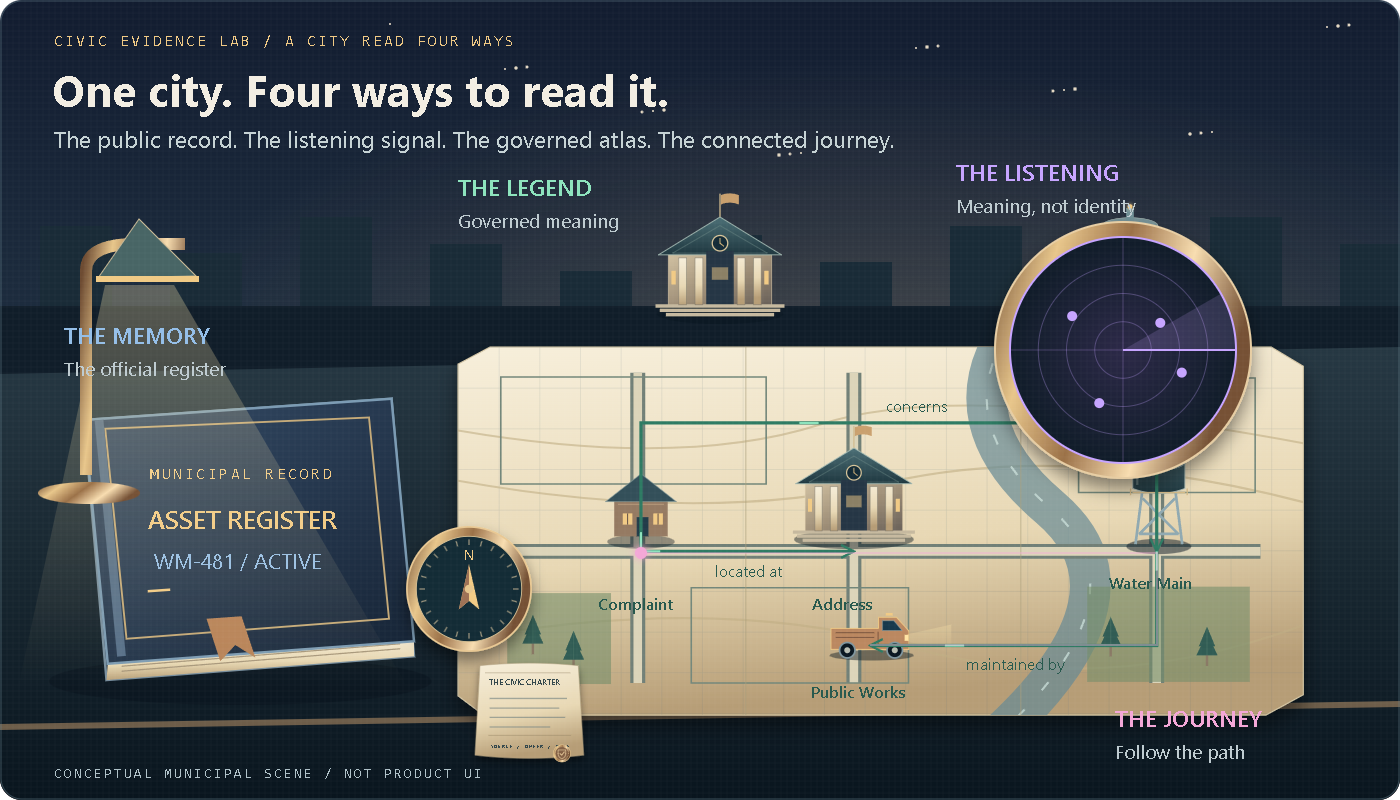
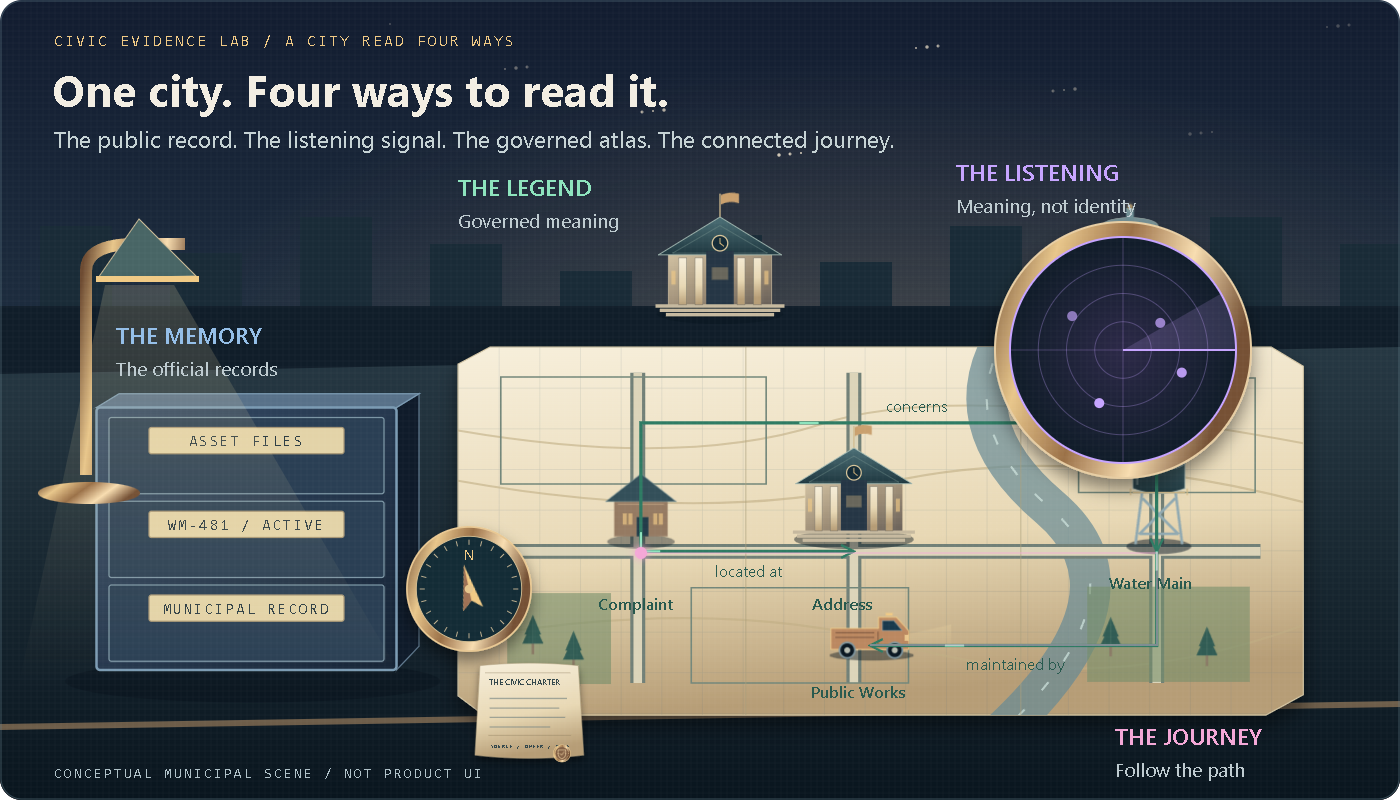
Replace leather register with file cabinet, move hero labels, add 1200x500 animated header GIF

diff --git a/blogs/vector-search-knowledge-graphs-fabric.html b/blogs/vector-search-knowledge-graphs-fabric.html
@@ -1,4 +1,4 @@
-<!doctype html>
+<!doctype html>
 <html lang="en">
 <head>
   <meta charset="utf-8">
@@ -48,13 +48,13 @@
     <h1>Vector Search vs. Knowledge Graphs: Where Microsoft Fabric Graph Fits</h1>
     <p class="meta">JonEricEubanks &middot; Draft based on the October 2, 2026 article</p>
     <figure>
-      <img data-civic-art src="../images/municipal-information-city-hero.svg" width="1400" height="800" alt="A lamplit civic survey desk overlooking city hall holds a leather asset register, brass radar, compass, sealed charter, and a parchment street atlas with a traveling route light.">
+      <img data-civic-art src="../images/municipal-information-city-hero.svg" width="1400" height="800" alt="A lamplit civic survey desk overlooking city hall holds a steel file cabinet, brass radar, compass, sealed charter, and a parchment street atlas with a traveling route light.">
       <figcaption>A city read four ways: its memory, its listening signal, its shared legend, and its connected journey. The recurring objects represent complementary responsibilities, not competing replacements.</figcaption>
     </figure>
     <h2>Records, radar, maps, and routes: making sense of AI data architecture</h2>
     <p>One of the most confused topics in AI is the difference between a vector database and a knowledge graph. The terms are often used as if they describe competing versions of the same technology. They do not.</p>
     <p>A vector database finds information that is similar in meaning. A knowledge graph defines what entities mean and how they are connected. A relational database preserves authoritative records and transactions. Microsoft Fabric Graph provides an engine for following complex paths and patterns across connected data in OneLake.</p>
-    <p>For local government, picture a <strong>Civic Evidence Lab</strong>: a lamplit survey desk overlooking city hall, with one water-main incident under examination. A leather register is the city's memory. A brass scanner is its listening signal. A sealed charter and street atlas are its shared legend. A compass and traveling light represent the journey through connected records. These objects recur throughout the illustrations because the instruments work together, but their findings are not interchangeable.</p>
+    <p>For local government, picture a <strong>Civic Evidence Lab</strong>: a lamplit survey desk overlooking city hall, with one water-main incident under examination. A file cabinet is the city's memory. A brass scanner is its listening signal. A sealed charter and street atlas are its shared legend. A compass and traveling light represent the journey through connected records. These objects recur throughout the illustrations because the instruments work together, but their findings are not interchangeable.</p>
     <figure>
       <img data-civic-art src="../images/municipal-information-city-divider.svg" width="1400" height="260" alt="" loading="lazy">
     </figure>
@@ -70,7 +70,7 @@
     <p>A records office is designed around exactness. Every permit has a permit number. Every parcel has a parcel identifier. Every inspection belongs to a known case, property, asset, or application.</p>
     <p>That is the role of a relational database. Information is organized into tables with rows, columns, primary keys, foreign keys, constraints, and transactions. The database protects the integrity of the official record.</p>
     <figure>
-      <img data-civic-art src="../images/municipal-records-office.svg" width="1400" height="680" alt="A stone municipal records office stands beside a brass-handled archive cabinet. A work-order drawer opens slowly beside a leather asset register.">
+      <img data-civic-art src="../images/municipal-records-office.svg" width="1400" height="680" alt="A stone municipal records office stands beside a brass-handled archive cabinet. A work-order drawer opens slowly beside a smaller steel file cabinet.">
       <figcaption>The city's memory: an archive drawer opens, but the official record stays exact. The fictional asset, work-order, and inspection IDs are examples, not real resident data.</figcaption>
     </figure>
     <p>A relational database is the right tool for questions such as:</p>
@@ -176,7 +176,7 @@ Asset ownership came from the municipal asset-management system</code></pre>
     <h2>One water-main incident, four different questions</h2>
     <p>Consider a resident reporting water bubbling through the pavement. Each part of the municipal information city answers a different question.</p>
     <figure>
-      <img data-civic-art src="../images/water-main-four-views.svg" width="1400" height="680" alt="A house, bubbling street puddle, public-works truck, and water tower sit above a flowing water-main cutaway. A complaint sheet, register, compass, and seal frame the investigation." loading="lazy">
+      <img data-civic-art src="../images/water-main-four-views.svg" width="1400" height="680" alt="A house, bubbling street puddle, public-works truck, and water tower sit above a flowing water-main cutaway. A complaint sheet, file cabinet, compass, and seal frame the investigation." loading="lazy">
       <figcaption>One leak, four questions. The street scene keeps the architecture grounded in a municipal service problem; the underground water flow is physical context, not a database pipeline.</figcaption>
     </figure>
     <p><strong>The records office asks:</strong> Which official asset, complaint, inspection, or work-order records match this identifier or location?</p>
@@ -206,11 +206,11 @@ Illustrative application contract, not Fabric Graph API syntax.</code></pre>
     <h2>The visual language matters</h2>
     <p>When diagrams mix similarity and relationships together, they reinforce the same confusion the architecture is supposed to solve. The symbols should make the difference visible.</p>
     <figure>
-      <img data-civic-art src="../images/municipal-data-symbols.svg" width="1400" height="680" alt="A leather register, rotating radar, sealed charter, and moving compass form a physical symbol legend above solid, dashed, dotted, and wavy line samples." loading="lazy">
+      <img data-civic-art src="../images/municipal-data-symbols.svg" width="1400" height="680" alt="A steel file cabinet, rotating radar, sealed charter, and moving compass form a physical symbol legend above solid, dashed, dotted, and wavy line samples." loading="lazy">
       <figcaption>The objects are the legend. Their silhouettes identify the responsibility; line styles identify the status of a connection. Color and movement never carry meaning alone.</figcaption>
     </figure>
     <ul>
-      <li><strong>The navy leather register and archive cabinet</strong> represent authoritative relational records: the city's memory.</li>
+      <li><strong>The archive file cabinet</strong> represent authoritative relational records: the city's memory.</li>
       <li><strong>The purple radar, floating reports, and waves</strong> represent semantic similarity: the city's listening signal.</li>
       <li><strong>The parchment atlas and green labeled connections</strong> represent entities and explicit relationships: the city's shared legend.</li>
       <li><strong>Gold seals and shields</strong> represent definitions, rules, provenance, and governance.</li>
@@ -231,7 +231,7 @@ Complaint ≈≈≈ similar to ≈≈≈ Complaint</code></pre>
     <p>The wrong architectural question is, “Should we use SQL, a vector database, a knowledge graph, or Fabric Graph?”</p>
     <p>The better question is, “Which responsibility does each layer need to perform?”</p>
     <figure>
-      <img data-civic-art src="../images/municipal-information-layers.svg" width="1400" height="680" alt="City hall and a water tower frame an evidence desk where the asset register, radar, charter, and traced city atlas work together without a stack of boxes." loading="lazy">
+      <img data-civic-art src="../images/municipal-information-layers.svg" width="1400" height="680" alt="City hall and a water tower frame an evidence desk where the file cabinet, radar, charter, and traced city atlas work together without a stack of boxes." loading="lazy">
       <figcaption>Compose the city, not a winner. The recurring instruments share one scene because their responsibilities complement each other; they are not a required stack or a linear pipeline.</figcaption>
     </figure>
     <ul>

diff --git a/blogs/vector-search-knowledge-graphs-fabric-techcommunity.html b/blogs/vector-search-knowledge-graphs-fabric-techcommunity.html
@@ -1,8 +1,8 @@
-<figure>
+<figure>
       <img
         style="width: 100%; max-width: 960px; height: auto"
-        src="https://raw.githubusercontent.com/JonEricEubanks/public-assets/main/images/municipal-information-city-hero.svg"
-        alt="A lamplit civic survey desk overlooking city hall holds a leather asset register, brass radar, compass, sealed charter, and a parchment street atlas with a traveling route light."
+        src="https://raw.githubusercontent.com/JonEricEubanks/public-assets/main/images/municipal-information-city-hero-wide.gif"
+        alt="A lamplit civic survey desk overlooking city hall holds a steel file cabinet, brass radar, compass, sealed charter, and a parchment street atlas with a traveling route light."
         loading="lazy"
       />
       <figcaption>A city read four ways: its memory, its listening signal, its shared legend, and its connected journey. The recurring objects represent complementary responsibilities, not competing replacements.</figcaption>
@@ -10,7 +10,7 @@
     <h2>Records, radar, maps, and routes: making sense of AI data architecture</h2>
     <p>One of the most confused topics in AI is the difference between a vector database and a knowledge graph. The terms are often used as if they describe competing versions of the same technology. They do not.</p>
     <p>A vector database finds information that is similar in meaning. A knowledge graph defines what entities mean and how they are connected. A relational database preserves authoritative records and transactions. Microsoft Fabric Graph provides an engine for following complex paths and patterns across connected data in OneLake.</p>
-    <p>For local government, picture a <strong>Civic Evidence Lab</strong>: a lamplit survey desk overlooking city hall, with one water-main incident under examination. A leather register is the city's memory. A brass scanner is its listening signal. A sealed charter and street atlas are its shared legend. A compass and traveling light represent the journey through connected records. These objects recur throughout the illustrations because the instruments work together, but their findings are not interchangeable.</p>
+    <p>For local government, picture a <strong>Civic Evidence Lab</strong>: a lamplit survey desk overlooking city hall, with one water-main incident under examination. A file cabinet is the city's memory. A brass scanner is its listening signal. A sealed charter and street atlas are its shared legend. A compass and traveling light represent the journey through connected records. These objects recur throughout the illustrations because the instruments work together, but their findings are not interchangeable.</p>
     <figure>
       <img
         style="width: 100%; max-width: 960px; height: auto"
@@ -34,7 +34,7 @@
       <img
         style="width: 100%; max-width: 960px; height: auto"
         src="https://raw.githubusercontent.com/JonEricEubanks/public-assets/main/images/municipal-records-office.svg"
-        alt="A stone municipal records office stands beside a brass-handled archive cabinet. A work-order drawer opens slowly beside a leather asset register."
+        alt="A stone municipal records office stands beside a brass-handled archive cabinet. A work-order drawer opens slowly beside a smaller steel file cabinet."
         loading="lazy"
       />
       <figcaption>The city's memory: an archive drawer opens, but the official record stays exact. The fictional asset, work-order, and inspection IDs are examples, not real resident data.</figcaption>
@@ -160,7 +160,7 @@ Asset ownership came from the municipal asset-management system</code></pre>
       <img
         style="width: 100%; max-width: 960px; height: auto"
         src="https://raw.githubusercontent.com/JonEricEubanks/public-assets/main/images/water-main-four-views.svg"
-        alt="A house, bubbling street puddle, public-works truck, and water tower sit above a flowing water-main cutaway. A complaint sheet, register, compass, and seal frame the investigation."
+        alt="A house, bubbling street puddle, public-works truck, and water tower sit above a flowing water-main cutaway. A complaint sheet, file cabinet, compass, and seal frame the investigation."
         loading="lazy"
       />
       <figcaption>One leak, four questions. The street scene keeps the architecture grounded in a municipal service problem; the underground water flow is physical context, not a database pipeline.</figcaption>
@@ -195,13 +195,13 @@ Illustrative application contract, not Fabric Graph API syntax.</code></pre>
       <img
         style="width: 100%; max-width: 960px; height: auto"
         src="https://raw.githubusercontent.com/JonEricEubanks/public-assets/main/images/municipal-data-symbols.svg"
-        alt="A leather register, rotating radar, sealed charter, and moving compass form a physical symbol legend above solid, dashed, dotted, and wavy line samples."
+        alt="A steel file cabinet, rotating radar, sealed charter, and moving compass form a physical symbol legend above solid, dashed, dotted, and wavy line samples."
         loading="lazy"
       />
       <figcaption>The objects are the legend. Their silhouettes identify the responsibility; line styles identify the status of a connection. Color and movement never carry meaning alone.</figcaption>
     </figure>
     <ul>
-      <li><strong>The navy leather register and archive cabinet</strong> represent authoritative relational records: the city's memory.</li>
+      <li><strong>The archive file cabinet</strong> represent authoritative relational records: the city's memory.</li>
       <li><strong>The purple radar, floating reports, and waves</strong> represent semantic similarity: the city's listening signal.</li>
       <li><strong>The parchment atlas and green labeled connections</strong> represent entities and explicit relationships: the city's shared legend.</li>
       <li><strong>Gold seals and shields</strong> represent definitions, rules, provenance, and governance.</li>
@@ -225,7 +225,7 @@ Complaint ≈≈≈ similar to ≈≈≈ Complaint</code></pre>
       <img
         style="width: 100%; max-width: 960px; height: auto"
         src="https://raw.githubusercontent.com/JonEricEubanks/public-assets/main/images/municipal-information-layers.svg"
-        alt="City hall and a water tower frame an evidence desk where the asset register, radar, charter, and traced city atlas work together without a stack of boxes."
+        alt="City hall and a water tower frame an evidence desk where the file cabinet, radar, charter, and traced city atlas work together without a stack of boxes."
         loading="lazy"
       />
       <figcaption>Compose the city, not a winner. The recurring instruments share one scene because their responsibilities complement each other; they are not a required stack or a linear pipeline.</figcaption>

diff --git a/tools/build_civic_evidence_art.py b/tools/build_civic_evidence_art.py
@@ -1,4 +1,4 @@
-"""Render the original, scene-led Civic Evidence Lab animated SVG collection."""
+"""Render the original, scene-led Civic Evidence Lab animated SVG collection."""
 
 from html import escape
 from math import cos, sin, pi
@@ -41,6 +41,7 @@ DEFS = """
  .needle{animation:needle 8s ease-in-out infinite;transform-origin:0 0}
  .stamp{animation:stamp 7s ease-in-out infinite}
  .drawer{animation:drawer 9s ease-in-out infinite}
+ .pull{animation:pull 9s ease-in-out infinite}
  .draft{stroke-dasharray:18 250;animation:draft 8s linear infinite}
  .flow{stroke-dasharray:10 24;animation:flow 4s linear infinite}
  .traveler{offset-rotate:0deg;animation:travel 14s linear infinite}
@@ -54,6 +55,7 @@ DEFS = """
  @keyframes sweep{to{transform:rotate(360deg)}}
  @keyframes needle{0%,100%{transform:rotate(-12deg)}50%{transform:rotate(16deg)}}
  @keyframes stamp{0%,25%,100%{transform:translateY(-16px)}35%,55%{transform:translateY(0)}}
+ @keyframes pull{0%,20%,100%{transform:translate(0,0)}35%,65%{transform:translate(-5px,9px)}}
  @keyframes drawer{0%,20%,100%{transform:translateX(0)}35%,65%{transform:translateX(18px)}}
  @keyframes draft{to{stroke-dashoffset:-268}}
  @keyframes flow{to{stroke-dashoffset:-68}}
@@ -147,20 +149,20 @@ def stars(height):
     return body
 
 
-def book(x, y, scale=1, title="ASSET REGISTER"):
-    body = """<ellipse cx="125" cy="209" rx="153" ry="19" fill="#07111b" opacity=".5"/>
-<path d="M0 0L246 -17L264 189L18 208Z" fill="#152539" stroke="#778e9e" stroke-width="2"/>
-<path d="M18 208L264 189V177L19 195Z" fill="url(#paper)"/><path d="M30 201L253 183M30 197L253 179" stroke="#a8987c"/>
-<path d="M0 0L19 195L264 177L246 -17Z" fill="url(#cover)" stroke="#7b9bb3" stroke-width="2"/>
-<path d="M17 7L34 175L244 159L228 -2Z" fill="none" stroke="#c5aa78" stroke-width="1.5"/>
-<path d="M12 0L30 189" stroke="#566f89" stroke-width="7"/>
-<path d="M98 159L109 193L121 180L137 190L126 157Z" fill="#b78358"/>"""
-    body += text(53, 47, "MUNICIPAL RECORD", 13, GOLD, 'class="mono"')
-    body += text(51, 87, title, 20, GOLD, 'font-weight="600"')
-    body += text(56, 119, "WM-481 / ACTIVE", 17, NAVY)
-    body += '<path class="draft" d="M51 137L222 125" stroke="#f1ca85" stroke-width="2"/>'
+def book(x, y, scale=1, title="ASSET FILES"):
+    body = """<ellipse cx="135" cy="209" rx="150" ry="17" fill="#07111b" opacity=".5"/>
+<path d="M250 -10L268 -21V181L250 200Z" fill="#0f1b2a" stroke="#5f788d"/>
+<path d="M10 -10L28 -21H268L250 -10Z" fill="#587189" stroke="#7b9bb3"/>
+<rect x="10" y="-10" width="240" height="210" rx="3" fill="url(#cover)" stroke="#7b9bb3" stroke-width="2"/>"""
+    labels = [title, "WM-481 / ACTIVE", "MUNICIPAL RECORD"]
+    for i, name in enumerate(labels):
+        top = -2 + i*67
+        cls = 'class="pull"' if i == 1 else ""
+        body += f'<g {cls}><rect x="20" y="{top}" width="220" height="61" rx="2" fill="#2a3f54" stroke="#7c96a5"/>'
+        body += f'<rect x="52" y="{top+8}" width="156" height="21" rx="2" fill="#e3d3a8" stroke="#a89776"/>'
+        body += text(130, top+23, name, 12, "#2d3d44", 'class="mono" text-anchor="middle"')
+        body += f'<path d="M98 {top+44}H162" stroke="url(#bronze)" stroke-width="7" stroke-linecap="round"/></g>'
     return transformed(x, y, scale, body)
-
 
 def charter(x, y, scale=1):
     body = """<path d="M0 4Q120 -8 234 4L247 217Q120 232 -12 217Z" fill="url(#paper)" stroke="#a89776" filter="url(#shadow)"/>
@@ -253,9 +255,12 @@ def puddle(x,y,scale=1):
     return transformed(x,y,scale,body)
 
 
-def write(name,title,description,body,height=680,subtitle=""):
-    header = text(54,46,"CIVIC EVIDENCE LAB / A CITY READ FOUR WAYS",16,GOLD,'class="mono"')
-    if height>300:
+def write(name,title,description,body,height=680,subtitle="",compact=False):
+    header = text(54,34 if compact else 46,"CIVIC EVIDENCE LAB / A CITY READ FOUR WAYS",16,GOLD,'class="mono"')
+    if compact:
+        header += text(52,84,title,38,extra='font-weight="700"')
+        header += text(54,114,subtitle,20,"#c6d3d5")
+    elif height>300:
         header += text(52,107,title,44,extra='font-weight="700"')
         header += text(54,148,subtitle,23,"#c6d3d5")
     footer = text(54,height-22,"CONCEPTUAL MUNICIPAL SCENE / NOT PRODUCT UI",14,"#b0c2c9",'class="mono"')
@@ -279,12 +284,12 @@ def build():
     body += atlas(458,347,1.07,True) + book(84,420,1.25)
     body += scanner(1123,350,113) + compass(469,589,.85) + charter(480,664,.42)
     body += '<path class="lamp" d="M105 285L18 688H408L174 285Z" fill="url(#beam)"/><path d="M86 475V271Q86 244 136 244H185" stroke="url(#bronze)" stroke-width="12" fill="none"/><path d="M98 278L139 219L196 276Z" fill="#486565" stroke="#c6b794"/><path d="M96 279H199" stroke="#f1ca85" stroke-width="6"/><ellipse cx="89" cy="493" rx="51" ry="11" fill="url(#bronze)"/>'
-    body += label(64,344,"THE MEMORY","The official register",NAVY)
+    body += label(116,344,"THE MEMORY","The official records",NAVY)
     body += label(956,181,"THE LISTENING","Meaning, not identity",PURPLE)
     body += label(458,196,"THE LEGEND","Governed meaning",GREEN)
     body += traveler("M641 553L855 553L1157 553L1157 645L870 645",MAGENTA)
-    body += label(1115,727,"THE JOURNEY","Follow the path",MAGENTA)
-    write("municipal-information-city-hero","One city. Four ways to read it.","A lamplit municipal survey desk overlooks a city hall and water tower. A leather register, floating-report radar, brass compass, charter seal, and parchment city atlas recur throughout the article. A magenta traveler follows a modeled route; it does not create facts.",body,800,"The public record. The listening signal. The governed atlas. The connected journey.")
+    body += label(1115,745,"THE JOURNEY","Follow the path",MAGENTA)
+    write("municipal-information-city-hero","One city. Four ways to read it.","A lamplit municipal survey desk overlooks a city hall and water tower. A steel file cabinet, floating-report radar, brass compass, charter seal, and parchment city atlas recur throughout the article. A magenta traveler follows a modeled route; it does not create facts.",body,800,"The public record. The listening signal. The governed atlas. The connected journey.")
 
     body = skyline(201,.75)
     body += text(54,105,"Every connection needs an anchor.",34,extra='font-weight="600"')
@@ -304,7 +309,7 @@ def build():
     body += book(1027,385,.92)
     body += label(74,580,"THE CITY'S MEMORY","Keys, constraints, transactions.",NAVY)
     body += label(643,580,"THE RECORD IS EXACT","An identifier is not a similarity score.",NAVY)
-    write("municipal-records-office","The memory / Preserve the public record","A stone municipal records office sits beside a brass-handled archive cabinet and a leather asset register. The work-order drawer slowly opens and closes while city-hall windows glow. All displayed IDs are fictional.",body,subtitle="Relational records are the city's memory: exact identifiers and protected transactions.")
+    write("municipal-records-office","The memory / Preserve the public record","A stone municipal records office sits beside a brass-handled archive cabinet and a smaller steel file cabinet. The work-order drawer slowly opens and closes while city-hall windows glow. All displayed IDs are fictional.",body,subtitle="Relational records are the city's memory: exact identifiers and protected transactions.")
 
     body = skyline(568,.9)
     body += scanner(470,378,179)
@@ -348,11 +353,11 @@ def build():
     body += report(54,233,.98,"COMPLAINT / CR-017") + book(492,216,.8) + compass(913,264,.66) + seal(1245,277,.96)
     body += label(54,621,"ONE LEAK / FOUR QUESTIONS",color=GOLD)
     body += text(474,621,"Recorded? Similar? Defined? Connected?",22,"#becbd0")
-    write("water-main-four-views","One incident. Not one universal database.","A dimensional street scene shows a resident's house, a bubbling puddle, a public-works truck, and a water tower. An underground cutaway carries flowing blue water. A complaint sheet, asset register, compass, and charter seal illustrate the four questions about the same incident.",body,subtitle="The report starts the investigation. Every capability answers a different question.")
+    write("water-main-four-views","One incident. Not one universal database.","A dimensional street scene shows a resident's house, a bubbling puddle, a public-works truck, and a water tower. An underground cutaway carries flowing blue water. A complaint sheet, file cabinet, compass, and charter seal illustrate the four questions about the same incident.",body,subtitle="The report starts the investigation. Every capability answers a different question.")
 
     body = '<path d="M0 552H1400V680H0Z" fill="url(#desk)"/>'
     body += book(63,251,.87) + scanner(498,338,88) + charter(707,243,.94) + compass(1138,338,1.16)
-    body += label(62,485,"REGISTER / RECORD",color=NAVY)
+    body += label(62,485,"FILE CABINET / RECORD",color=NAVY)
     body += label(374,485,"RADAR / SIMILARITY",color=PURPLE)
     body += label(708,485,"SEAL / GOVERNANCE",color=GOLD)
     body += label(1050,485,"COMPASS / ROUTE",color=MAGENTA)
@@ -362,24 +367,45 @@ def build():
         body += text(x,591,title,21,GREEN)
     body += '<path class="water" d="M1060 556Q1075 540 1090 556T1120 556T1150 556T1180 556T1210 556T1240 556T1270 556T1300 556" fill="none" stroke="#c6a4ff" stroke-width="3"/>'
     body += text(1060,591,"Similar, not a fact",21,PURPLE)
-    write("municipal-data-symbols","The objects are the legend.","Physical civic evidence objects form an animated still life: a leather register, sweeping radar, charter with a municipal seal, and brass compass. Engraved line samples below distinguish authoritative, inferred, unverified, and similar. Color alone is never the key.",body,subtitle="A recurring visual vocabulary, not a collection of interchangeable glowing nodes.")
+    write("municipal-data-symbols","The objects are the legend.","Physical civic evidence objects form an animated still life: a steel file cabinet, sweeping radar, charter with a municipal seal, and brass compass. Engraved line samples below distinguish authoritative, inferred, unverified, and similar. Color alone is never the key.",body,subtitle="A recurring visual vocabulary, not a collection of interchangeable glowing nodes.")
 
     body = '<path d="M0 511H1400V680H0Z" fill="url(#desk)"/>'
     body += townhall(291,470,1.03) + tower(1133,468,1.2)
     body += atlas(448,321,.69,True) + book(87,405,.73) + scanner(625,295,82) + charter(803,244,.71)
     body += traveler("M577 453L703 453L703 514L901 514",MAGENTA,10)
-    body += label(54,587,"KEEP THE REGISTER","Preserve integrity.",NAVY)
+    body += label(54,587,"KEEP THE RECORDS","Preserve integrity.",NAVY)
     body += label(391,587,"LISTEN FOR EVIDENCE","Retrieve by meaning.",PURPLE)
     body += label(750,587,"READ THE LEGEND","Govern relationships.",GREEN)
     body += label(1065,587,"FOLLOW THE ROUTE","Traverse the graph.",MAGENTA)
-    write("municipal-information-layers","Compose the city. Do not choose a winner.","City hall and a water tower frame one municipal evidence desk. The archive register, radar, sealed charter, and city map share the scene as complementary instruments rather than stacked technology boxes. A route light traverses the atlas.",body,subtitle="These are complementary responsibilities, not a required stack or an execution sequence.")
+    write("municipal-information-layers","Compose the city. Do not choose a winner.","City hall and a water tower frame one municipal evidence desk. The archive file cabinet, radar, sealed charter, and city map share the scene as complementary instruments rather than stacked technology boxes. A route light traverses the atlas.",body,subtitle="These are complementary responsibilities, not a required stack or an execution sequence.")
 
     body = skyline(224,.75) + seal(1290,114,1.2)
     body += text(54,108,"Preserve the record. Understand the evidence.",35,extra='font-weight="600"')
     body += text(54,157,"Listen for meaning. Validate connections. Follow the route. Keep people accountable.",23,"#c6d3d5")
     body += traveler("M54 189L707 189L707 207L1260 207",MAGENTA,13)
     write("municipal-information-city-footer","Preserve the record. Understand the evidence.","The recurring city hall, water tower, charter seal, and traveling magenta light close the municipal story. The destination is accountable understanding, not a universal database.",body,260)
-    print(f"Built 11 animated municipal scenes in {OUT}")
+    build_wide_hero()
+    print(f"Built 12 animated municipal scenes in {OUT}")
+
+
+def build_wide_hero():
+    """2.4:1 header variant of the city hero (1400x583 scales to 1200x500)."""
+    ax, ay, scale = 395, 250, .86
+    route = "".join(
+        f'{"M" if i == 0 else "L"}{ax+scale*lx:.0f} {ay+scale*ly}'
+        for i, (lx, ly) in enumerate([(171, 192), (370, 192), (653, 192), (653, 279), (385, 279)])
+    )
+    body = skyline(215, .8)
+    body += '<path d="M0 262L1400 240V583H0Z" fill="url(#desk)"/><path d="M0 572L1400 556" stroke="#ac8862" stroke-opacity=".6" stroke-width="6"/>'
+    body += atlas(ax, ay, scale, True) + book(100, 318, .8)
+    body += scanner(1165, 310, 78) + compass(1315, 322, .6) + charter(1288, 408, .3)
+    body += '<g transform="translate(3.9 85.1) scale(.72)"><path class="lamp" d="M105 285L18 688H408L174 285Z" fill="url(#beam)"/><path d="M86 475V271Q86 244 136 244H185" stroke="url(#bronze)" stroke-width="12" fill="none"/><path d="M98 278L139 219L196 276Z" fill="#486565" stroke="#c6b794"/><path d="M96 279H199" stroke="#f1ca85" stroke-width="6"/><ellipse cx="89" cy="493" rx="51" ry="11" fill="url(#bronze)"/></g>'
+    body += label(160,258,"THE MEMORY","The official records",NAVY)
+    body += label(910,160,"THE LISTENING","Meaning, not identity",PURPLE)
+    body += label(480,170,"THE LEGEND","Governed meaning",GREEN)
+    body += traveler(route,MAGENTA)
+    body += label(1115,508,"THE JOURNEY","Follow the path",MAGENTA)
+    write("municipal-information-city-hero-wide","One city. Four ways to read it.","A lamplit municipal survey desk overlooks a city hall and water tower. A steel file cabinet, floating-report radar, brass compass, charter seal, and parchment city atlas recur throughout the article. A magenta traveler follows a modeled route; it does not create facts.",body,583,"The public record. The listening signal. The governed atlas. The connected journey.",compact=True)
 
 
 if __name__ == "__main__":

diff --git a/blogs/civic-evidence-lab-guide.md b/blogs/civic-evidence-lab-guide.md
@@ -4,11 +4,11 @@
 
 **Theme:** a city read four ways: memory, listening, meaning, and journey.
 
-**Metaphor:** a lamplit public-works survey desk looking out over a living municipality. The leather register is the city's memory; a brass radar listens for similar reports; a sealed charter and parchment street atlas supply shared meaning; a compass and magenta traveler navigate modeled connections. A house, public-works truck, bubbling puddle, and water tower make the incident tangible.
+**Metaphor:** a lamplit public-works survey desk looking out over a living municipality. The file cabinet is the city's memory; a brass radar listens for similar reports; a sealed charter and parchment street atlas supply shared meaning; a compass and magenta traveler navigate modeled connections. A house, public-works truck, bubbling puddle, and water tower make the incident tangible.
 
 The revision follows the **scene-building method** in the Night Shift and sewer CCTV SVGs: an environmental setting, recognizable physical objects, recurring motifs, and animation that expresses the subject. It does not copy their skyline layout, moon motif, camera tunnel, branded marks, or artwork. The municipal scenes and objects are original. The municipal images referenced in the pasted draft were not present locally.
 
-**Design:** a copper-horizon civic evening, lamplit ink-blue desk, leather binding, stone columns, brass instruments, folded complaint sheets, a river-crossed parchment map, and dimensional public-works landmarks. Technical labels annotate the scene rather than filling interchangeable cards. This is atmospheric dimensional vector illustration, not photorealistic photography.
+**Design:** a copper-horizon civic evening, lamplit ink-blue desk, steel file cabinets, stone columns, brass instruments, folded complaint sheets, a river-crossed parchment map, and dimensional public-works landmarks. Technical labels annotate the scene rather than filling interchangeable cards. This is atmospheric dimensional vector illustration, not photorealistic photography.
 
 **Recurring symbols:** city hall anchors public accountability; the water tower identifies the municipal service domain; the gold seal denotes provenance and governance; the magenta traveling light denotes execution, never fact creation. A charter expresses designed rules, not automatic enforcement. These are explanatory metaphors, not claims that SQL opens a physical drawer or Fabric dispatches a truck.
 
@@ -18,7 +18,7 @@ The revision follows the **scene-building method** in the Night Shift and sewer 
 
 | Responsibility | Symbol | Accent | Meaning |
 |---|---|---|---|
-| Relational records | Leather register / archive drawer | Navy `#94bee8` | The city's memory: exact IDs, constraints, transactions |
+| Relational records | File cabinet / archive drawer | Navy `#94bee8` | The city's memory: exact IDs, constraints, transactions |
 | Vector retrieval | Brass radar / floating report sheets / wave | Purple `#c6a4ff` | The listening signal: nearby in meaning, not an established fact |
 | Knowledge graph | Parchment atlas / labeled connections | Green `#8de4bd` | Shared meaning: typed entities and relationships |
 | Governance | Sealed charter / gold shield | Gold `#f1ca85` | Definitions, provenance, ownership, rules |
@@ -35,7 +35,7 @@ All files are under [images](../images). The [illustrated blog](vector-search-kn
 |---|---|---|
 | [municipal-information-city-hero.svg](../images/municipal-information-city-hero.svg) | Opening | Four instruments, one incident |
 | [municipal-information-city-divider.svg](../images/municipal-information-city-divider.svg) | Introduction | The public record anchors the analysis |
-| [municipal-records-office.svg](../images/municipal-records-office.svg) | Relational section | Controlled register and exact identifiers |
+| [municipal-records-office.svg](../images/municipal-records-office.svg) | Relational section | Controlled records and exact identifiers |
 | [municipal-similarity-radar.svg](../images/municipal-similarity-radar.svg) | Vector section | Related reports without asserted edges |
 | [municipal-knowledge-map.svg](../images/municipal-knowledge-map.svg) | Knowledge section | Typed relationships and a separate legend |
 | [fabric-graph-route-engine.svg](../images/fabric-graph-route-engine.svg) | Fabric Graph section | Execution boundary over OneLake sources |
